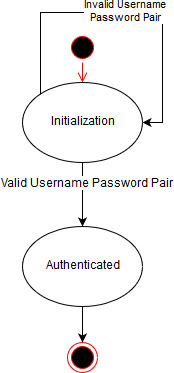
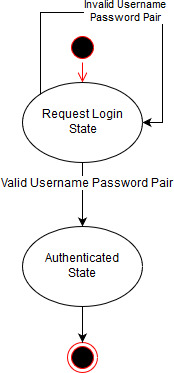
Added state charts

Changed region(s): [[0.2586, 0.6783, 0.6897, 0.7668], [0.2299, 0.2949, 0.7184, 0.3539]]

diff --git a/Deliverable 3/Deliverable3.tex b/Deliverable 3/Deliverable3.tex
@@ -69,7 +69,7 @@ of the subsystems and components, and finally a detailed outline of all the
 classes that will compose this system as a whole.
 
 The target audience for this document are the stakeholders (Dr. Ridha Khedri,
-Andrew Le Clair and Michael Liut), and any current or future architects,
+Andrew LeClair and Michael Liut), and any current or future architects,
 designers and developers of this project.
 
 
@@ -111,18 +111,46 @@ The following section contains state charts for each controller class in Erudite
 {
 \begin{figure}[H]
   \centering
-  \includegraphics[scale=0.3]{A3_Assets/MainController.jpg}
+  \includegraphics[scale=0.5]{A3_Assets/MainController.jpg}
   \caption{Main Controller State Chart}
 \end{figure}
 }
 
 \subsection{The Login Controller}
+{
+\begin{figure}[H]
+  \centering
+  \includegraphics[scale=0.5]{A3_Assets/LoginController.jpg}
+  \caption{Login Controller State Chart}
+\end{figure}
+}
 
 \subsection{The Content Controller}
+{
+\begin{figure}[H]
+  \centering
+  \includegraphics[scale=0.5]{A3_Assets/ContentController.jpg}
+  \caption{Content Controller State Chart}
+\end{figure}
+}
 
 \subsection{The Quiz Controller}
+{
+\begin{figure}[H]
+  \centering
+  \includegraphics[scale=0.5]{A3_Assets/QuizController.jpg}
+  \caption{Quiz Controller State Chart}
+\end{figure}
+}
 
 \subsection{The Grades Controller}
+{
+\begin{figure}[H]
+  \centering
+  \includegraphics[scale=0.5]{A3_Assets/GradeController.jpg}
+  \caption{Grades Controller State Chart}
+\end{figure}
+}
 % End Section
 
 \section{Sequence Diagrams}
